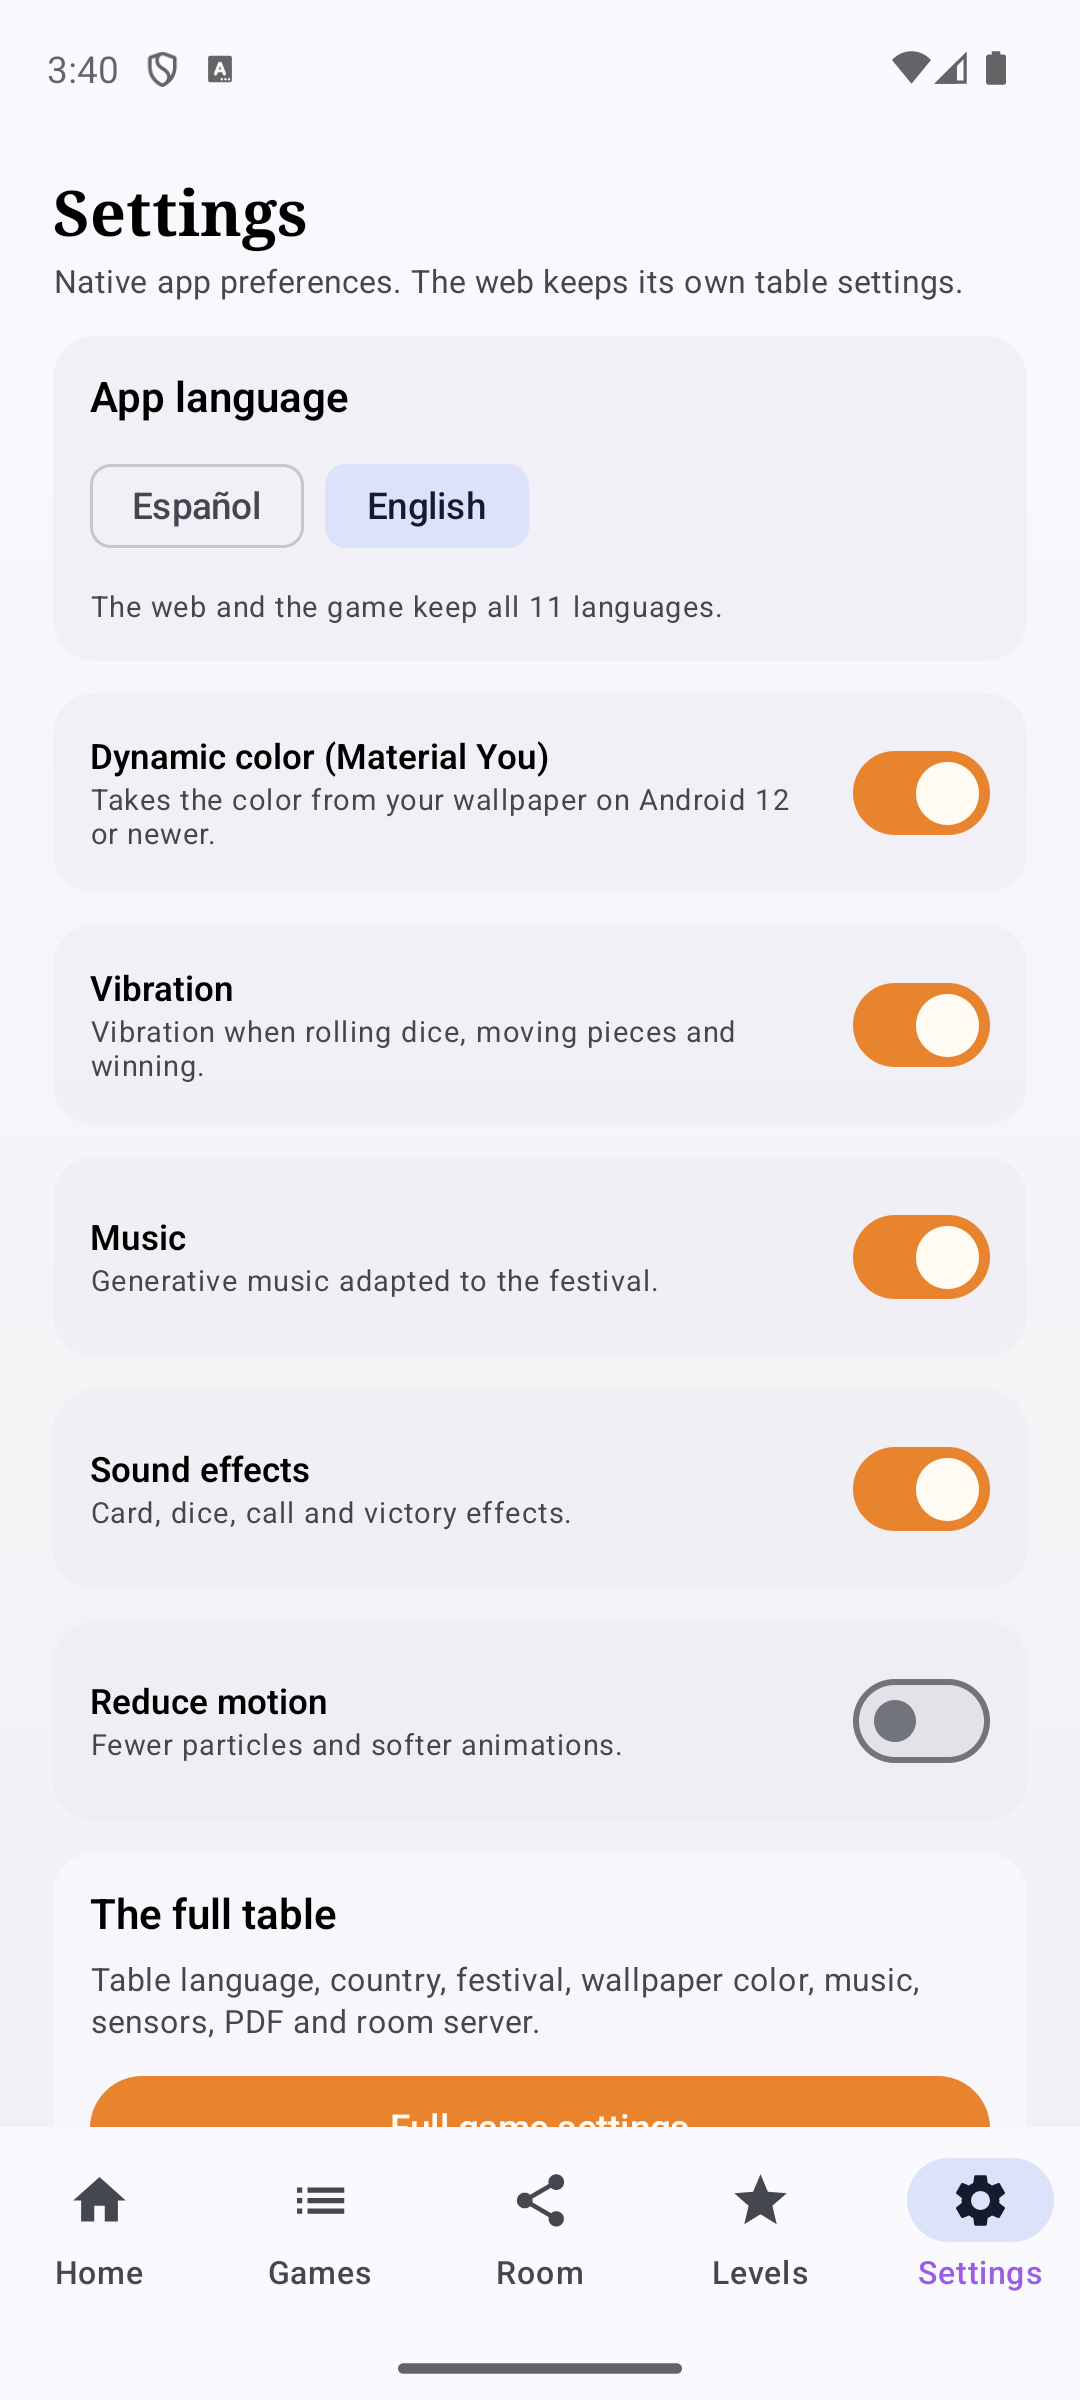
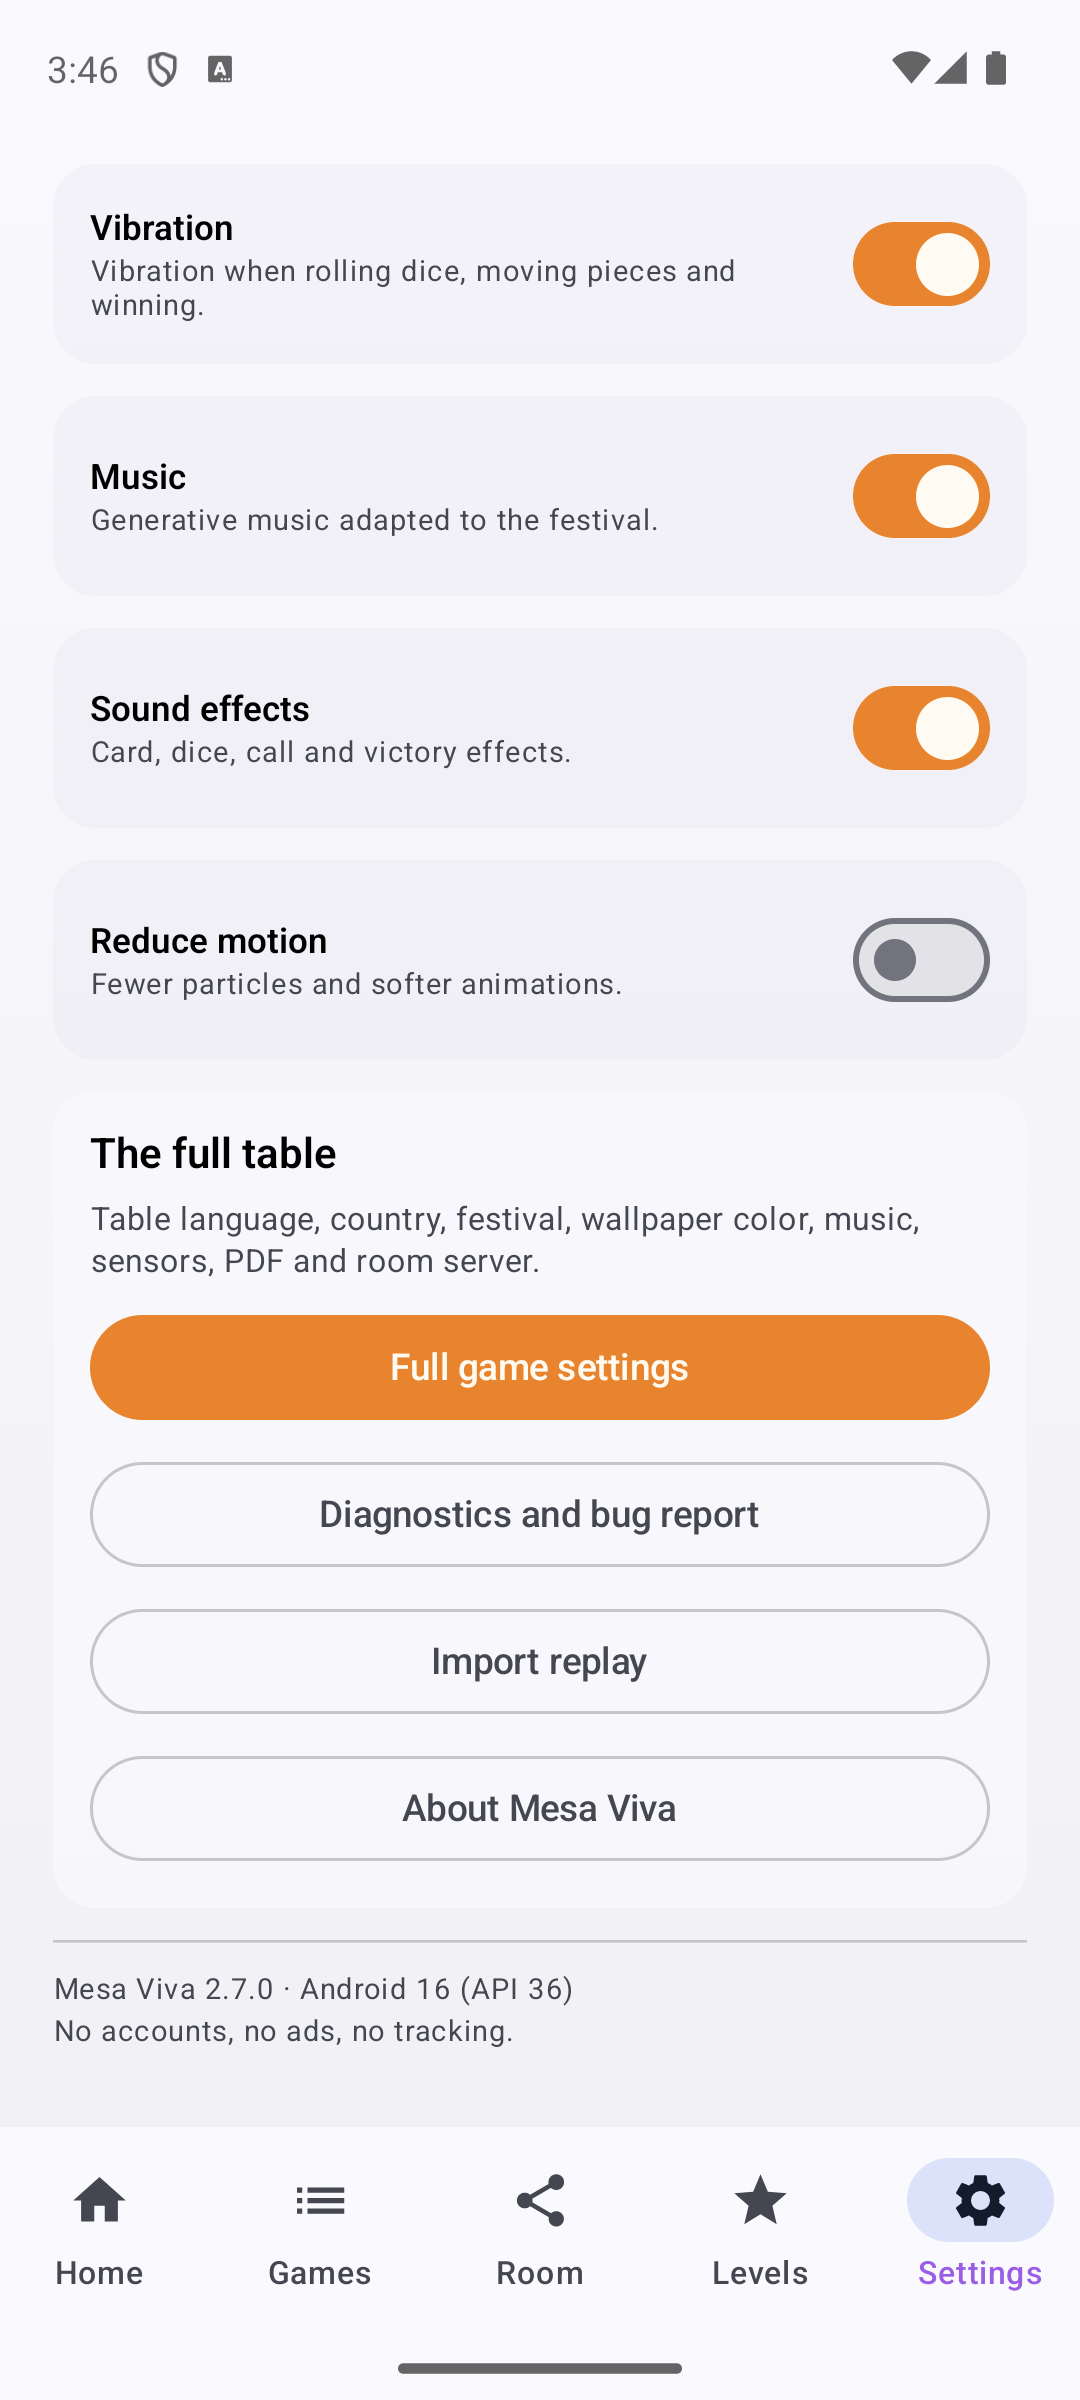
docs: add Mesa Viva 2.7.0 visual evidence

diff --git a/versions/v2.7.0.md b/versions/v2.7.0.md
@@ -62,7 +62,7 @@ v2.7.0 cierra el catálogo: **30 juegos jugables de 30**, todos nativos en Jetpa
 - TypeScript sin errores.
 - Web compilada con Vite 6.4.5.
 - APK debug, APK release firmado y AAB release firmado.
-- Verificación funcional en emulador Android 14 (jerarquías de UI); capturas visuales pendientes de recaptura.
+- Verificación visual y funcional en emulador Android 14, con capturas en `docs/evidence/v2.7.0/`.
 
 ## Cambiado
 
@@ -111,7 +111,18 @@ Los artefactos locales viven en `artifacts/` (ignorado por git). La release de G
 
 ## Evidencia visual
 
-La verificación funcional se hizo en emulador Android 14 (`Pixel_7_API_34`) con jerarquías de UI (`uiautomator`) de Inicio, Catálogo, Mahjong, Luzhanqi, Tren Mexicano, Chickenfoot y Ajedrez para tres. Las capturas PNG se recapturarán cuando el emulador esté estable y se guardarán en `docs/evidence/v2.7.0/`. No se publican imágenes de versiones anteriores ni capturas de la pantalla de arranque: la evidencia debe mostrar la app real.
+En [`docs/evidence/v2.7.0/`](../docs/evidence/v2.7.0/), capturadas en emulador Android 14 (`Pixel_7_API_34`) desde el APK debug 2.7.0:
+
+- `home.png` — inicio 2.7.0 con 30 juegos jugables.
+- `catalog.png` — catálogo 30/30.
+- `mahjong.png` — mesa de Mahjong americano.
+- `mahjong-setup.png` — configuración de la mesa de Mahjong.
+- `riichi.png` — mesa de Riichi con muro de 136 piezas.
+- `luzhanqi.png` — tablero de Luzhanqi con piezas ocultas.
+- `mexican-train.png` — mesa de Tren Mexicano.
+- `chickenfoot.png` — mesa de Chickenfoot.
+- `three-chess.png` — tablero de Ajedrez para tres.
+- `settings.png` — ajustes con la versión 2.7.0.
 
 ## Rutas de QA
 
@@ -137,7 +148,6 @@ adb shell am start -n com.mesaviva.app/.MainActivity --es screen three-chess
 - **La cáscara nativa solo tiene español e inglés**; la web ofrece 11 idiomas.
 - **Festividades nativas incompletas**: faltan Semana Santa, Carnaval, Corpus Christi y otras variantes por país.
 - **Teléfono físico bloqueado por MIUI.**
-- **Capturas visuales pendientes**: el emulador acumuló servicios de UiAutomation bloqueados y se desconectó durante la sesión de evidencia. La funcionalidad se validó con pruebas y jerarquías de UI.
 - **Mahjong y Riichi son versiones esenciales**, no simuladores de torneo.
 - **El WebView sigue como respaldo** de la PWA y la sala remota.
 

diff --git a/docs/evidence/v2.7.0/README.md b/docs/evidence/v2.7.0/README.md
@@ -1,0 +1,22 @@
+# Evidencia visual · Mesa Viva v2.7.0
+
+- **Fecha:** 2026-10-30
+- **Dispositivo:** emulador `Pixel_7_API_34` · Android 14 (API 34)
+- **APK:** `mesa-viva-2.7.0-debug.apk`
[1 lines of base64/hex data omitted]
+- **Build:** `versionCode=29`, `versionName=2.7.0`, targetSdk 36.
+
+| Archivo | Contenido |
+|---|---|
+| `home.png` | Inicio 2.7.0 con 30 juegos jugables y 30 % Compose. |
+| `catalog.png` | Catálogo con 30 juegos, 30 nativos y filtros. |
+| `mahjong.png` | Mesa de Mahjong americano: mano, rivales, muro y descartes. |
+| `mahjong-setup.png` | Configuración de la mesa de Mahjong americano. |
+| `riichi.png` | Mesa de Riichi con muro de 136 piezas, riichi y yaku. |
+| `luzhanqi.png` | Tablero de Luzhanqi con piezas rojas visibles y azules ocultas. |
+| `mexican-train.png` | Mesa de Tren Mexicano con hub, trenes y mano. |
+| `chickenfoot.png` | Mesa de Chickenfoot con la pata del 9 y sus tres ramas. |
+| `three-chess.png` | Tablero de Ajedrez para tres con tres ejércitos. |
+| `settings.png` | Ajustes con «Mesa Viva 2.7.0 · Android 16 (API 36)». |
+
+Las capturas se tomaron de la app real, no de maquetas. El emulador está configurado en inglés; la app conserva los nombres de los juegos y los textos de las mesas en español e inglés. No se incluyen capturas de la pantalla de arranque ni de versiones anteriores.

diff --git a/ROADMAP.md b/ROADMAP.md
@@ -19,7 +19,7 @@
 - [x] 30 juegos jugables de 30, todos 100 % Jetpack Compose.
 - [x] 146 pruebas Kotlin + 30 web = **176 pruebas**.
 - [x] APK debug, APK release firmado y AAB release firmado.
-- [ ] Capturas visuales de las mesas nuevas (recaptura pendiente por inestabilidad del emulador).
+- [x] Evidencia visual en `docs/evidence/v2.7.0/`.
 - [ ] Paridad web de los 7 juegos nuevos (v2.8.0).
 - [ ] Relay público con TLS, replays web de todos los juegos y accesibilidad completa (v2.8.0).
 - [ ] Baseline Profile y prueba en teléfono físico (v2.8.0).

diff --git a/docs/evidence/README.md b/docs/evidence/README.md
@@ -15,6 +15,7 @@ Capturas de las versiones publicadas. Se conservan para auditoría y para que cu
 | v1.6.0 | [`v1.6.0/`](./v1.6.0/) | Serpientes de 4 asientos, relay online, replay exportable e importación |
 | v1.7.0 | [`v1.7.0/`](./v1.7.0/) | Dominó de 4 asientos con manos privadas, replay automático y visor web |
 | v1.8.0 | [`v1.8.0/`](./v1.8.0/) | Catálogo de 30, Reversi y Ur nativos |
+| v2.7.0 | [`v2.7.0/`](./v2.7.0/) | 30/30 jugables, Mahjong, Riichi, Luzhanqi, Tren Mexicano, Chickenfoot y Ajedrez para tres |
 
 Reglas:
 
